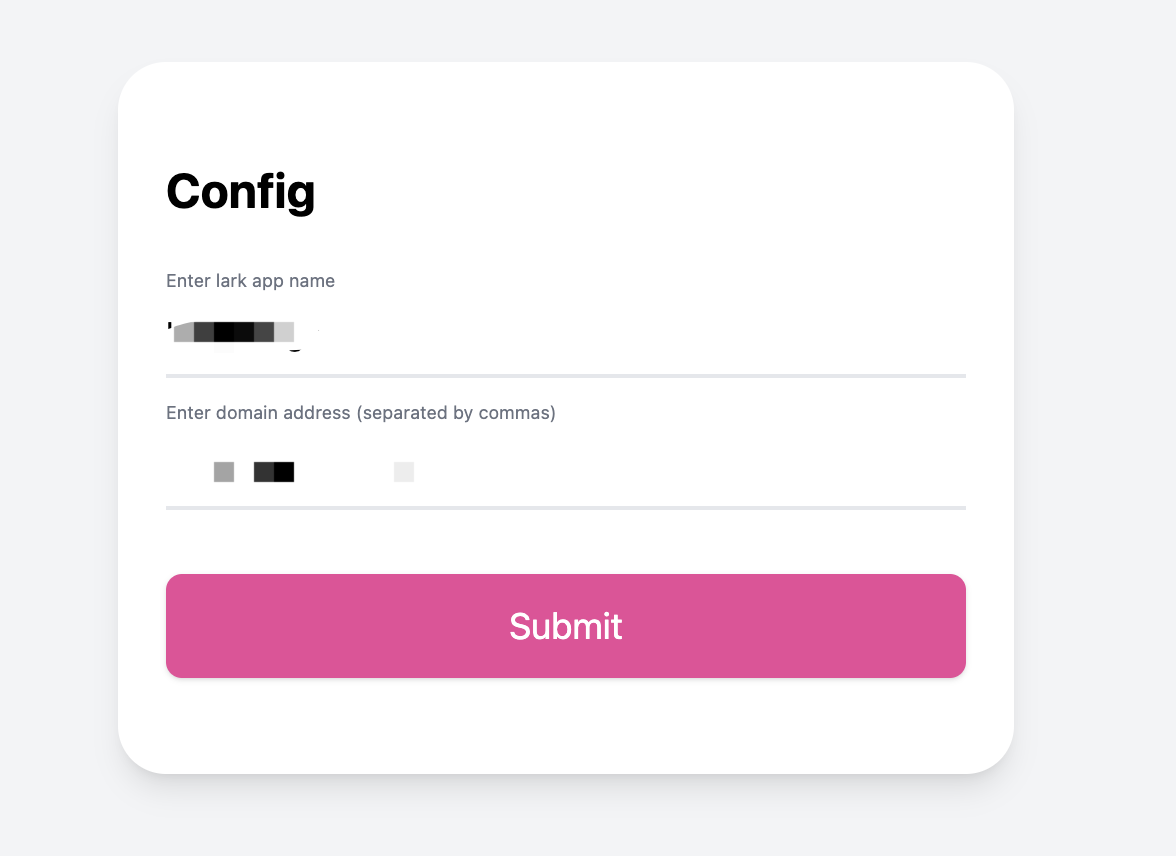
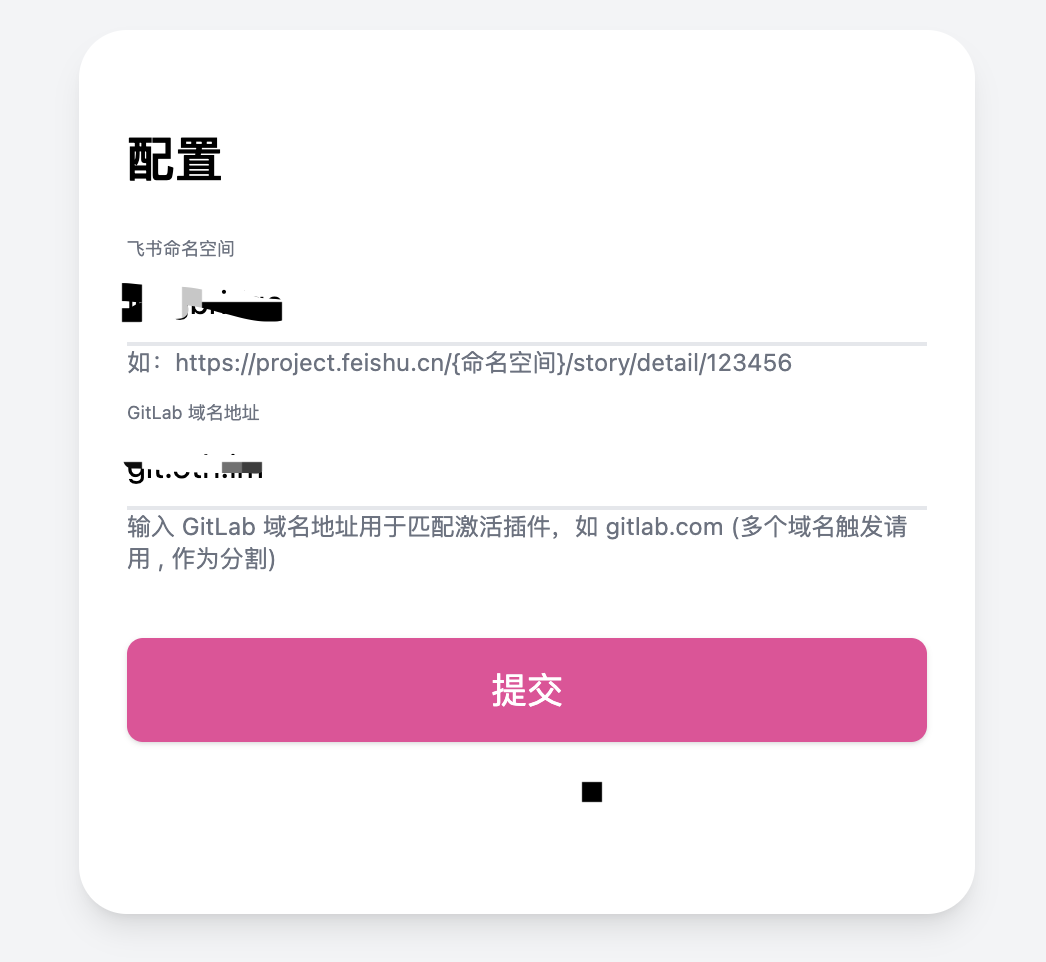
feat: 调整配置页面并更新指引

diff --git a/src/html/options.html b/src/html/options.html
@@ -5,7 +5,7 @@
     <meta http-equiv="X-UA-Compatible" content="IE=edge" />
     <meta name="viewport" content="width=device-width, initial-scale=1.0" />
     <link rel="icon" href="./icon.png" />
-    <title>config</title>
+    <title>配置页面</title>
     <script src="./3.4.js"></script>
     <style>
       #dev-inject {
@@ -80,34 +80,45 @@
       <div
         class="mx-auto max-w-md px-6 py-12 bg-white border-0 shadow-lg sm:rounded-3xl"
       >
-        <h1 class="text-2xl font-bold mb-8">Config</h1>
+        <h1 class="text-2xl font-bold mb-8">配置</h1>
         <form id="form" novalidate>
           <div class="relative z-0 w-full mb-5">
-            <input
-              type="text"
-              name="app"
-              placeholder=" "
-              required
-              class="pt-3 pb-2 block w-full px-0 mt-0 bg-transparent border-0 border-b-2 appearance-none focus:outline-none focus:ring-0 focus:border-black border-gray-200"
-            />
-            <label
-              for="app"
-              class="absolute duration-300 top-3 -z-1 origin-0 text-gray-500"
-              >Enter lark app name</label
-            >
+            <div>
+              <input
+                type="text"
+                name="app"
+                placeholder=" "
+                required
+                class="pt-3 pb-2 block w-full px-0 mt-0 bg-transparent border-0 border-b-2 appearance-none focus:outline-none focus:ring-0 focus:border-black border-gray-200"
+              />
+              <label
+                for="app"
+                class="absolute duration-300 top-3 -z-1 origin-0 text-gray-500"
+                >飞书命名空间</label
+              >
+            </div>
+            <p class="text-xs text-gray-500">
+              如：https://project.feishu.cn/{命名空间}/story/detail/123456
+            </p>
           </div>
           <div class="relative z-0 w-full mb-5">
-            <input
-              type="text"
-              name="domain"
-              placeholder=" "
-              class="pt-3 pb-2 block w-full px-0 mt-0 bg-transparent border-0 border-b-2 appearance-none focus:outline-none focus:ring-0 focus:border-black border-gray-200"
-            />
-            <label
-              for="domain"
-              class="absolute duration-300 top-3 -z-1 origin-0 text-gray-500"
-              >Enter domain address (separated by commas)</label
-            >
+            <div>
+              <input
+                type="text"
+                name="domain"
+                placeholder=" "
+                class="pt-3 pb-2 block w-full px-0 mt-0 bg-transparent border-0 border-b-2 appearance-none focus:outline-none focus:ring-0 focus:border-black border-gray-200"
+              />
+              <label
+                for="domain"
+                class="absolute duration-300 top-3 -z-1 origin-0 text-gray-500"
+                >GitLab 域名地址</label
+              >
+            </div>
+            <p class="text-xs text-gray-500">
+              输入 GitLab 域名地址用于匹配激活插件，如 gitlab.com
+              (多个域名触发请用 , 作为分割)
+            </p>
           </div>
           <div
             class="relative z-0 w-full mb-5 text-sm text-red-600 hidden"
@@ -117,14 +128,14 @@
             class="relative z-0 w-full mb-5 text-sm text-green-600 hidden"
             id="success"
           >
-            success
+            配置成功
           </div>
           <button
             id="button"
             type="button"
             class="w-full px-6 py-3 mt-3 text-lg text-white transition-all duration-150 ease-linear rounded-lg shadow outline-none bg-pink-500 hover:bg-pink-600 hover:shadow-lg focus:outline-none"
           >
-            Submit
+            提交
           </button>
           <div class="text-center mt-5" id="dev-inject">
             <a
@@ -140,7 +151,7 @@
       <div
         class="fixed inset-0 z-50 bg-black opacity-30 flex items-center justify-center flex-1"
       >
-        <div class="loader">Loading...</div>
+        <div class="loader">更新中...</div>
       </div>
     </div>
     <script src="./options.js"></script>

diff --git a/src/html/google.html b/src/html/google.html
@@ -1,0 +1,151 @@
+<!doctype html>
+<html>
+  <head>
+    <meta charset="UTF-8" />
+    <meta http-equiv="X-UA-Compatible" content="IE=edge" />
+    <meta name="viewport" content="width=device-width, initial-scale=1.0" />
+    <title>google</title>
+    <style>
+      * {
+        margin: 0;
+        padding: 0;
+        box-sizing: border-box;
+      }
+      body {
+        background-color: #f0f0f0;
+      }
+      li {
+        list-style: none;
+        margin: 12px 0;
+      }
+      canvas {
+        display: block;
+        margin: 0 auto;
+      }
+    </style>
+  </head>
+  <body>
+    <ul>
+      <li>
+        <canvas id="small-banner" width="440" height="280"></canvas>
+      </li>
+      <li>
+        <canvas id="top-banner" width="1400" height="560"></canvas>
+      </li>
+    </ul>
+    <script>
+      const APP_NAME = "gitlab-link-to-lark";
+      function loadSources(srcs) {
+        return new Promise((resolve, reject) => {
+          let loaded = 0;
+          const keys = Object.keys(srcs);
+          const total = keys.length;
+          const images = {};
+          keys.forEach((key) => {
+            const src = srcs[key];
+            const img = new Image();
+            img.src = src;
+            img.onload = () => {
+              loaded++;
+              images[key] = img;
+              if (loaded === total) {
+                resolve(images);
+              }
+            };
+            img.onerror = (e) => {
+              reject(e);
+            };
+          });
+        });
+      }
+
+      class Banner {
+        constructor(options = {}) {
+          this.id = options.id;
+          this.canvas = document.getElementById(this.id);
+          this.ctx = this.canvas.getContext("2d");
+          this.width = options.width;
+          this.height = options.height;
+          this.queue = [];
+        }
+        _background() {
+          this.ctx.fillStyle = "#fff";
+          this.ctx.fillRect(0, 0, this.width, this.height);
+        }
+        render() {
+          this._background();
+          this.queue.forEach((cb) => {
+            cb(this.ctx, this);
+          });
+        }
+        draw(cb) {
+          this.queue.push(cb);
+        }
+      }
+
+      loadSources({
+        gitlab: "./gitlab.svg",
+        lark: "./lark.svg",
+      }).then((images) => {
+        const smallBanner = new Banner({
+          id: "small-banner",
+          width: 440,
+          height: 280,
+        });
+        smallBanner.draw((ctx, target) => {
+          const size = 100;
+          ctx.drawImage(
+            images.gitlab,
+            target.width / 2 - size - 30,
+            target.height / 2 - 80,
+            size,
+            size
+          );
+          ctx.drawImage(
+            images.lark,
+            target.width / 2 + 30,
+            target.height / 2 - 80,
+            size,
+            size
+          );
+          ctx.font = "24px Arial";
+          ctx.fillStyle = "#333";
+          ctx.textAlign = "center";
+          ctx.fillText(APP_NAME, target.width / 2, target.height / 2 + 60);
+          ctx.fillText("+", target.width / 2, target.height / 2 - 20);
+        });
+        smallBanner.render();
+
+        // 1400x560
+        const topBanner = new Banner({
+          id: "top-banner",
+          width: 1400,
+          height: 560,
+        });
+        topBanner.draw((ctx, target) => {
+          const size = 200;
+          ctx.drawImage(
+            images.gitlab,
+            target.width / 2 - size - 60,
+            target.height / 2 - 160,
+            size,
+            size
+          );
+          ctx.drawImage(
+            images.lark,
+            target.width / 2 + 60,
+            target.height / 2 - 160,
+            size,
+            size
+          );
+          ctx.font = "48px Arial";
+          ctx.fillStyle = "#333";
+          ctx.textAlign = "center";
+          ctx.fillText(APP_NAME, target.width / 2, target.height / 2 + 120);
+          ctx.fillText("+", target.width / 2, target.height / 2 - 40);
+        });
+        topBanner.render();
+      });
+    </script>
+  </body>
+</html>

diff --git a/gulpfile.js b/gulpfile.js
@@ -5,6 +5,8 @@ const rollup = require("rollup");
 const fs = require("fs");
 const path = require("path");
 
+const isProd = process.env.NODE_ENV === "production";
+
 function jsIndex() {
   return rollup
     .rollup({
@@ -14,6 +16,20 @@ function jsIndex() {
     .then((bundle) => {
       return bundle.write({
         file: "./dist/index.js",
+        format: "iife",
+      });
+    });
+}
+
+function jsBackground() {
+  return rollup
+    .rollup({
+      input: "./src/js/background.js",
+      plugins: [dotenv()],
+    })
+    .then((bundle) => {
+      return bundle.write({
+        file: "./dist/background.js",
         format: "iife",
       });
     });
@@ -44,7 +60,7 @@ function static() {
 function manifest() {
   const pkg = require("./package.json");
   const manifest = require("./src/manifest.json");
-  manifest.name = pkg.name;
+  manifest.name = isProd ? pkg.name : `${pkg.name}-dev`;
   manifest.description = pkg.description;
   manifest.version = pkg.version;
   fs.writeFileSync(
@@ -54,11 +70,25 @@ function manifest() {
   return Promise.resolve();
 }
 
-if (process.env.NODE_ENV === "production") {
-  exports.build = series(jsOptions, jsIndex, html, static, manifest);
+if (isProd) {
+  exports.build = series(
+    jsOptions,
+    jsIndex,
+    jsBackground,
+    html,
+    static,
+    manifest
+  );
 } else {
-  watch("./src/**/*", series(jsOptions, jsIndex, html));
-  exports.dev = series(jsOptions, jsIndex, html, static, manifest);
+  watch("./src/**/*", series(jsOptions, jsIndex, jsBackground, html));
+  exports.dev = series(
+    jsOptions,
+    jsIndex,
+    jsBackground,
+    html,
+    static,
+    manifest
+  );
   const server = gls.static("dist", 3000);
   server.start();
 }

diff --git a/src/js/options.js b/src/js/options.js
@@ -21,10 +21,10 @@ function main() {
       const domain = formData.get("domain");
       const data = { app, domain };
       if (!data.app) {
-        return toggleError("Lark app name is required");
+        return toggleError("请输入飞书命名空间");
       }
       if (!data.domain) {
-        return toggleError("Gitlab domain is required");
+        return toggleError("请输入 Gitlab 地址");
       }
       toggleError();
       await setLarkConfig(data);

diff --git a/src/js/background.js b/src/js/background.js
@@ -1,0 +1,6 @@
+chrome.runtime.onInstalled.addListener((details) => {
+  if (details.reason === "install") {
+    // 打开选项页
+    chrome.runtime.openOptionsPage();
+  }
+});

diff --git a/README.md b/README.md
@@ -24,11 +24,11 @@ npm run build
 
 ## Chrome 商店安装
 
-- TODO
+[应用商店](https://chromewebstore.google.com/detail/gitlab-link-to-lark/ocmkgfnifakgckfeofcoakiniljdjcfp)
 
 # 使用
 
-打开浏览器扩展管理页面，找到 GitLab link to Lark 插件，点击 Options，填写 GitLab 地址和飞书应用名称，点击 Save。
+打开浏览器扩展管理页面，找到 GitLab link to Lark 插件，点击 Options，填写 GitLab 地址和飞书命名空间，点击提交
 
 <img src="./docs/install-4.png" alt="install"  />
 
